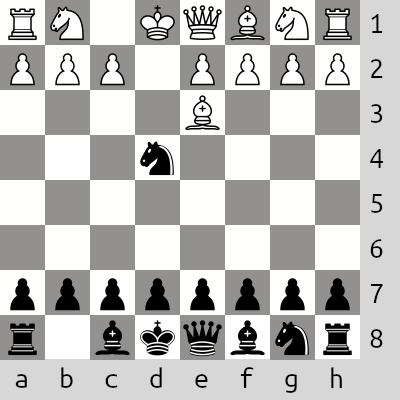
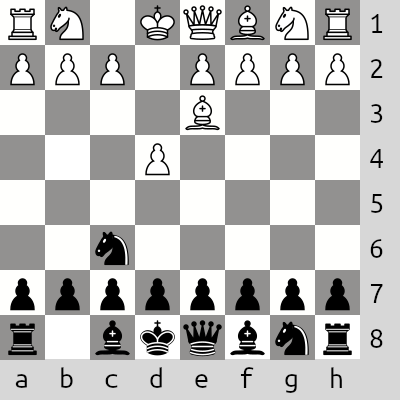
09.12.2022

Changed region(s): [[0.33, 0.33, 0.45, 0.45], [0.24, 0.57, 0.33, 0.66]]

diff --git a/06_Modulos/ajedrez/ajedrez.py b/06_Modulos/ajedrez/ajedrez.py
@@ -1,25 +1,74 @@
 import ajedrez.tablero as tablero
 import ajedrez.ficha as ficha
 
+def help():
+    print("hola")
 
 inicio = ['Ta1', 'Cb1', 'Ac1', 'Rd1', 'De1', 'Af1', 'Cg1', 'Th1',
-          'Pa2', 'Pb2', 'Pc2', 'Pd2', 'Pe2', 'Pf2', 'Pg2', 'Ph2',
-          'pa7', 'pb7', 'pc7', 'pd7', 'pe7', 'pf7', 'pg7', 'ph7',
-          'ta8', 'cb8', 'ac8', 'rd8', 'de8' ,'af8', 'cg8', 'th8'      
-         ]
-
-
+      'Pa2', 'Pb2', 'Pc2', 'Pd2', 'Pe2', 'Pf2', 'Pg2', 'Ph2',
+      'pa7', 'pb7', 'pc7', 'pd7', 'pe7', 'pf7', 'pg7', 'ph7',
+      'ta8', 'cb8', 'ac8', 'rd8', 'de8' ,'af8', 'cg8', 'th8'      
+     ]
 
 lista_fichas = []
+
 for i in inicio:
     lista_fichas.append(ficha.Ficha(i))
 
 tabl = tablero.Tablero(lista_fichas)
+
+
+
     
-tabl.pintar_tablero()  
+def inicio():
+    tabl.pintar_tablero().show()
+        
+def mover(ficha1, ficha2):
+    tabl.cambiar_posicion_ficha(ficha1, ficha2).show()
 
-tabl.cambiar_posicion_ficha("Pd2","Pd4")
-tabl.cambiar_posicion_ficha("cb8","cc6")
-tabl.cambiar_posicion_ficha("Ac1","Ae3")
+def comer(ficha1, ficha2):
+    tabl.comer_ficha(ficha1, ficha2).show()
+    
+    
+    
+    
+def es_seguro(tablero, fila, columna):
+  # Comprueba si es seguro colocar una dama en la fila y columna dadas en el tablero
 
-tabl.comer_ficha("cc6","cd4")
+  # Comprueba las filas hacia arriba
+    for i in range(fila):
+        if (tablero[i] == columna) or (abs(tablero[i] - columna) == abs(i - fila)):
+            return False
+
+    return True
+
+def ocho_damas(tabl_reinas, fila):
+  # Encuentra una solución al problema de las 8 damas usando un algoritmo de búsqueda en profundidad
+    tabl_reinas.pintar_tablero().show()
+  # Si llegamos a la última fila, hemos encontrado una solución
+    if fila == 8:
+        tabl_reinas.pintar_tablero().show()
+        return True
+
+  # Prueba cada columna en la fila actual
+    for columna in range(8):
+        # Si es seguro colocar una dama en esta posición, intenta colocarla
+        if es_seguro(tablero, fila, columna):
+            print("es seguro: " + str(fila) + " <- fila  col -> " + str(columna))
+          # Si se puede colocar una dama en la siguiente fila, devuelve verdadero
+            if ocho_damas(tabl_reinas, fila + 1):
+                return True
+
+  # Si no se encontró ninguna solución, devuelve falso
+    return False
+
+def damas():
+    # Inicializa el tablero como una lista de 8 elementos con valores iniciales de -1
+    inicio_reinas=['Da1','Da2', 'Da3','Da4', 'Da5','Da6', 'Da7','Da8']
+    lista_reinas = []
+    for i in inicio_reinas:
+        lista_reinas.append(ficha.Ficha(i))
+    tabl_reinas = tablero.Tablero(lista_reinas)
+
+    # Llama a la función para encontrar una solución
+    ocho_damas(tabl_reinas, 0)

diff --git a/06_Modulos/ajedrez/tablero.py b/06_Modulos/ajedrez/tablero.py
@@ -6,20 +6,21 @@ class Tablero:
         self.lista = lista_fichas
     
     def pintar_tablero(self):
-        tablero_img= Image.open('images/tablero.png').convert("RGBA")
+        tablero_img= Image.open('ajedrez/images/tablero.png').convert("RGBA")
         for ficha in self.lista:
             if ficha.visible: 
                 aux_img= Image.open(ficha.image_location).convert("RGBA")
                 tablero_img.alpha_composite(aux_img, (ficha.X,ficha.Y))
-            tablero_img.save("prueba2.png")
-#             tablero_img.show()
+                #tablero_img.save("images/prueba3.png")
+        return tablero_img
+        
         
     def cambiar_posicion_ficha(self, inicio, dest):
         for i in self.lista:
             if i.posi == inicio[1:]:
                 i.posi= dest[1:]
                 i.set_coord(i.posi)
-        self.pintar_tablero()
+        return self.pintar_tablero()
     
     def comer_ficha(self, inicio, dest):
         for i in self.lista:
@@ -28,4 +29,4 @@ class Tablero:
             if i.posi == inicio[1:]:
                 i.posi= dest[1:]
                 i.set_coord(i.posi)
-        self.pintar_tablero()
+        return self.pintar_tablero()

diff --git a/06_Modulos/script.py b/06_Modulos/script.py
@@ -1,10 +1,16 @@
-#!/usr/bin/env python3
-import sys
+import ajedrez.ajedrez
+import ajedrez.tablero as tablero
+import ajedrez.ficha as ficha
 
-print(sys.argv)
 
-for i in sys.argv:
-    print(i)
+# ajedrez.ajedrez.inicio()
 
-for j in range(1,len(sys.argv)):
-    print(sys.argv[j])
+# ajedrez.ajedrez.mover("Pd2","Pd4")
+# ajedrez.ajedrez.mover("cb8","cc6")
+# ajedrez.ajedrez.mover("Ac1","Ae3")
+
+# ajedrez.ajedrez.comer("cc6","cd4")
+
+
+ajedrez.ajedrez.help()
+ajedrez.ajedrez.damas()
